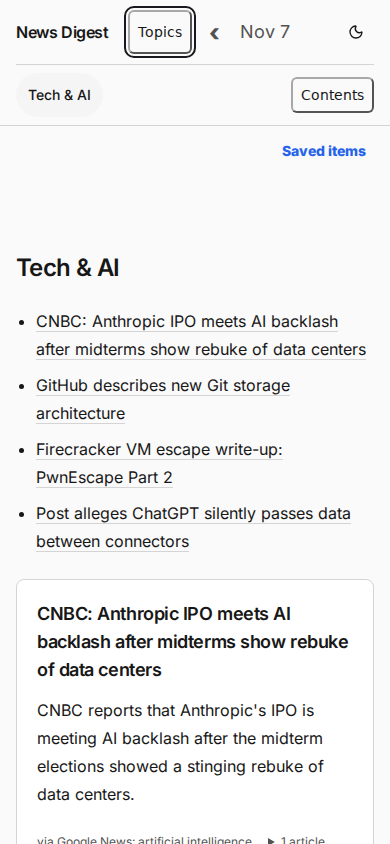
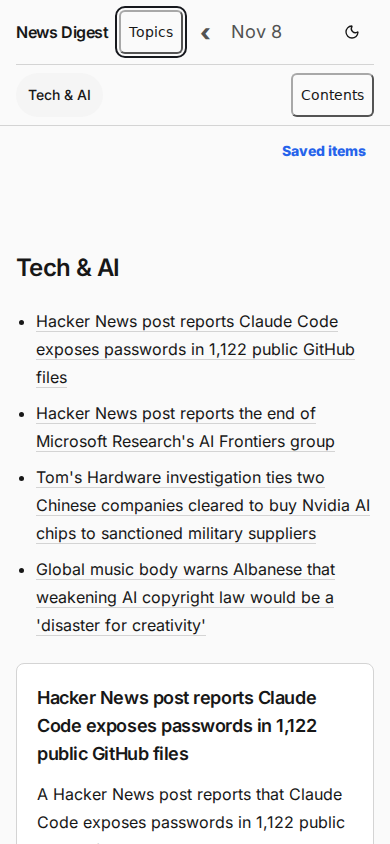
Record Nov 8 scheduled publication and first-week discovery totals

diff --git a/TASKS.md b/TASKS.md
@@ -4,17 +4,17 @@ Fix failures first. STEERING overrides older notes. [Prior detail through 846](d
 
 ## Immediate owner priorities
 
-- [ ] STEERING 50: phase 0 implementation is deployed: publication metadata/backfill, published-only reader, isolated development ledgers/providers and private AI/X test-edition controls. Five original reader responses match; private editions remain excluded. Recorded-provider accounting acceptance passed (1289); deployed free real-content test passed (1290); development allowances and disabled-provider guidance shipped (1292–1293). **Next: normal Nov 8 15:00 UTC scheduled publication**, then follow the [phase-0/phase-2 acceptance checklist](docs/edition-reviews/2026-11-08-acceptance-plan.md). Phase 2 topic hiding and story/post bookmarks are deployed and browser-verified, including historical editions. Do not ack either phase or begin phase 1 until scheduled acceptance passes. Keep VM private; phases 5–7 owner-gated. [Owner plan](docs/public-access-plan.md); [implementation history](docs/progress-archive/2026-11-08-task-detail-1295.md).
+- [ ] STEERING 50: phase 0 implementation is deployed: publication metadata/backfill, published-only reader, isolated development ledgers/providers and private AI/X test-edition controls. Five original reader responses match; private editions remain excluded. Recorded-provider accounting acceptance passed (1289); deployed free real-content test passed (1290); development allowances and disabled-provider guidance shipped (1292–1293). **Nov 8 scheduled publication passed** (1381): 162.339 s, full-AI, 19 stories/17 posts; original five response hashes unchanged and preferences/bookmarks browser checks pass. **Next: finish detailed editorial/accounting comparisons and phase acknowledgments**, following the [phase-0/phase-2 acceptance checklist](docs/edition-reviews/2026-11-08-acceptance-plan.md). Phase 2 topic hiding and story/post bookmarks are deployed and browser-verified, including historical editions. Do not ack either phase or begin phase 1 until scheduled acceptance passes. Keep VM private; phases 5–7 owner-gated. [Owner plan](docs/public-access-plan.md); [implementation history](docs/progress-archive/2026-11-08-task-detail-1295.md).
 
 - [ ] Breakage (1191–1229, Nov 7): metrics-store contention at the old 1% CPU cap caused transient scrape alerts and one failed backup-rule evaluation. CPU-only 1→2% trial began 16:00:24 UTC; memory/query limits unchanged, zero restarts. Iteration 1227 ten-minute paired observation: all 23 rules healthy, 42 uncached queries pass/max 1.076 s; admission-limit hits 1→2, zero queue timeouts/slow queries. Whole-stack 1.680% CPU/672.95 MiB peak, zero memory-high/OOM events. Fourteen small merges/130,682 rows, no big merges; comparable natural five-million-row compaction still unobserved. Iteration 1229 stored-history gap check (16:01–19:05:30, 370 points): largest 30-second merge increase 908,421 rows; 5,415,018 cumulative rows span 353 merges, not one comparable event. Iteration 1230 recovery probe now captures evaluator error/missed-iteration deltas across groups (not scraped historically); minute observation: zero new errors/misses, 23 healthy rules, no comparable merge. Recovery stays open; STEERING 49 removed the deployment hold and queued app changes deployed in 1230. [Incident and trial evidence](docs/decisions/0004-observability-capacity.md#nov-7-metrics-store-scrape-outage-iteration-1191). Latest check (1343, Nov 8 11:26 UTC): 23 healthy rules, four uncached queries ≤0.278 s, no new evaluator errors/missed runs; 31,684 rows/two small merges. Stored history (10:25:30–11:26:00, 122 points/series) adds 2,287,725 rows across 122 merges; largest 30-second increase 965,106 rows, no comparable candidate. Admission hits remain 2, zero query timeouts/slow queries or restarts. Recovery remains open. Next passive check ≥12:26 UTC.
 
-- [ ] STEERING 34 NOW: fixed keyword search ON for Nov 7; Grok 4.3/caps unchanged. Ship decision: nine usable keyword posts vs zero old-search; semantic dropped. Runtime/ledger admission and keyword-only production wiring verified (1053–1057). Next: first production acceptance; no more round-1/model analysis. [Plan](docs/x-search-plan.md), [evidence](docs/edition-reviews/2026-11-05-x-experiment-review.md).
+- [ ] STEERING 34 NOW: fixed keyword search ON for Nov 7; Grok 4.3/caps unchanged. Ship decision: nine usable keyword posts vs zero old-search; semantic dropped. Runtime/ledger admission and keyword-only production wiring verified (1053–1057). Nov 8 (1381): four completed keyword tools/40 fetched, eight selected citations, six outside-list; Nov 7–8 reviews recorded. Next: finish saved novelty/engagement review and Nov 9 third scheduled edition; no more round-1/model analysis. [Plan](docs/x-search-plan.md), [evidence](docs/edition-reviews/2026-11-05-x-experiment-review.md).
 - [ ] STEERING 30/31 historical accounting: $2.50 experiment/$1 UTC-day cap, outside 13:00–16:00, $0.15 per-call hold. Round 1 charged $0.532331 including unresolved Gaming timeout. [Experiment](docs/x-search-experiment.md), [review](docs/edition-reviews/2026-11-04-x-experiment-review.md).
 - [ ] STEERING 27 grouping: Nov 5 published multi-article groups had no clearly unrelated event; World broadest. Tech Moonshot/Hong Kong combined separate developments; editor v5 same-story instructions shipped (850), verify Nov 6. Raw responses/recall unverified; no wording grouping. [Review](docs/edition-reviews/2026-11-05.md).
   - Same-story production pass enabled (650) after sampled gate: labelled precision 141/141, recall 141/157, zero clearly unrelated/one borderline among 155 reviewed merges; no wording grouping rules. Four-call reservation bound $0.058192.
 - [ ] STEERING 7 speed: Nov 7 180.570 s/693 candidates; <60 s/current volume and <2 min/1,500 unmet. Iteration 1226 [recorded timeline](docs/edition-reviews/2026-11-07-social-latency.md): NBA critical (90.426 s story stage, 47.583 s posts); final 42.522 s includes X triage/repair then Bluesky triage/editing, 41.986 s active HTTP. Compare deployed repair changes on Nov 8. Bluesky scoring/editor split prepared (1020), still sequential: earlier scoring holds can refuse otherwise-admitted X editing (1022). Revisit only with protected X/repair holds or exact cache-only scoring; no paid trial. [Admission proof](docs/edition-reviews/2026-11-05-social-latency.md#admission-proof--iteration-1022), [concurrency](docs/edition-reviews/2026-11-04-concurrency.md).
 - [ ] STEERING 16 / M4 Social posts: Nov 5 X picks Tech/NBA/Gaming/World 3/5/5/1; all four topics present, no Bluesky picks. Saved X metrics empty: viral/outside-list quality acceptance remains open. Paid old open-search picks 1/19 (Tech); no claim that all-topic presence proves paid discovery quality.
-- [ ] STEERING 9/15 first-week report (1206): Nov 7 $0.166127/20 fetched/19 new verified outside-list candidates; three novel Tech citations and one previously verified NBA citation selected. Gaming/World four unconfirmed attempts. Nov 2–7 total $0.776678/24 calls/zero holds; attributed new verified/outside-list 91/80. Continue through Nov 8; keyword three-edition acceptance stays open. [Daily/weekly report](docs/SOURCES.md#nov-7-daily-and-first-week-production-x-report--iteration-1206).
+- [ ] STEERING 9/15 first-week report (1206): Nov 7 $0.166127/20 fetched/19 new verified outside-list candidates; three novel Tech citations and one previously verified NBA citation selected. Gaming/World four unconfirmed attempts. Nov 2–7 total $0.776678/24 calls/zero holds; attributed new verified/outside-list 91/80. Nov 2–8 report (1381): $1.036785/28 calls/zero holds, attributed new verified/outside-list 131/115; Nov 8 completed all four keyword tools and selected eight citations (six outside-list). Novelty/engagement review and Nov 9 third-edition acceptance stay open. [Daily/weekly report](docs/SOURCES.md#nov-7-daily-and-first-week-production-x-report--iteration-1206).
 - [ ] STEERING 18 Bluesky: authenticated hourly collection and session refresh verified (788); Nov 5 no selected posts. Quality/diversity acceptance remains open; World phrase shortlist empty. Cross-platform context/semantic gates shipped. [Sources](docs/SOURCES.md#sustained-bluesky-session-recovery--iteration-788-2026-11-05).
 - [x] STEERING 33/45 UI rebuild closed (1075): all acceptance gaps finished; [56 route screenshots and eight loaded-post views](docs/screenshots/ui/spec-routes.md). All 16 X embeds/17 saved posts retained. Desktop/mobile posts flow with the page (1079); full-embed length conflict remains open above. Label/admin-404/layout checks pass. Private rollout remains authorized; proxy header replacement proof required before public access.
 - [ ] STEERING 28 incremental triage OFF: reserve-safe admission/pools/cutoffs/draining verified. Nov 6 allowance $0.021736–$0.028915; only 2/65 early fingerprints compatible. Keep OFF; waste/latency unmeasured. [Assessment](docs/edition-reviews/2026-11-05-incremental-admission.md).
@@ -34,7 +34,7 @@ Fix failures first. STEERING overrides older notes. [Prior detail through 846](d
 
 ## Latest verified step
 
-- [x] Iteration 1344: Reconciled phase-0 status documentation with the deployed free/private admin test path, separate development opt-ins and remaining scheduled acceptance gate.
+- [x] Iteration 1381: Observed Nov 8 successful scheduled publication, verified reader/history and original hashes, browser-checked preferences/bookmarks, and recorded daily/first-week X totals. Detailed acceptance remains open.
 
 Earlier completed markers: [through 1042](docs/progress-archive/2026-11-06-task-done-1043.md).
 

diff --git a/docs/edition-reviews/2026-11-08.md b/docs/edition-reviews/2026-11-08.md
@@ -1,0 +1,77 @@
+# Nov 8 scheduled edition review
+
+Iteration 1381 observed scheduled publication without provider calls, writes to
+application data, deployment or restart. Detailed comparisons below remain open.
+
+## Publication and accounting
+
+Edition `f9af996b-f647-4994-836e-054964a93b74` covers Nov 7–8, ending 15:00 UTC.
+The scheduled job ran 15:00:00.032–15:02:42.371 UTC in one attempt:
+**162.339 seconds**, 18.231 seconds faster than Nov 7, still above target.
+Database metadata confirms `kind=scheduled`, the matching scheduled key and
+`published_at=2026-11-08 15:02:42.337+00`.
+
+API and worker started at 11:36:53 UTC after deployment of `2f5635ed`.
+All four topics completed AI story and post editing with zero unscored articles;
+the released scheduled reserve reports **full-ai**, recovering from NBA fallback.
+Tech and World story editing used Haiku; NBA and Gaming used Sonnet.
+
+| Topic     | Article candidates | Stories | X posts | Bluesky posts |
+| --------- | -----------------: | ------: | ------: | ------------: |
+| Tech & AI |                111 |       5 |       4 |             1 |
+| NBA       |                 85 |       4 |       3 |             2 |
+| Gaming    |                 80 |       5 |       2 |             0 |
+| World     |                144 |       5 |       3 |             2 |
+| Total     |                420 |      19 |      12 |             5 |
+
+Anthropic accounting: **$0.320864**, 43 settled calls, zero remaining holds.
+Daily allowance $0.516088, remaining $0.195224; scheduled reserve zero.
+This is $0.059309 less than Nov 7. X discovery is accounted separately below.
+
+## Keyword discovery and first week
+
+All four searches report `execution=completed` and a completed
+`x_keyword_search` tool call, with one attempt per topic and zero holds.
+This improves on Nov 7's four unconfirmed attempts for Gaming/World.
+
+| Topic     |      Cost | Fetched / newly verified | New outside-list | Cited selections / outside-list |
+| --------- | --------: | -----------------------: | ---------------: | ------------------------------: |
+| Tech & AI | $0.066438 |                  10 / 10 |               10 |                           2 / 2 |
+| NBA       | $0.064175 |                  10 / 10 |                5 |                           2 / 0 |
+| Gaming    | $0.064925 |                  10 / 10 |               10 |                           1 / 1 |
+| World     | $0.064569 |                  10 / 10 |               10 |                           3 / 3 |
+| Total     | $0.260107 |                  40 / 40 |               35 |                           8 / 6 |
+
+Selected counts were refreshed after publication; the pre-publication report
+correctly had zero selections. Cited selection does not establish novel paid
+value versus free discovery. See [first-week totals](../SOURCES.md#nov-8-daily-and-first-week-production-x-report--iteration-1381).
+
+## Reader and Bluesky observations
+
+Read every saved brief, summary, original post and context. NBA now has a
+four-line brief and four stories, with no Knicks–Cavaliers matchup preview.
+Tech still contains headline-level summaries; supplied-evidence classification
+remains necessary before accepting summary-depth improvements.
+NBA's two Curry posts describe separate milestones (41 points and a three-point
+streak); do not count shared subject alone as a repeated event.
+
+Reserved slots were enabled in every topic. Bluesky read/shortlisted/picked:
+Tech 585/1/1, NBA 539/10/2, Gaming 671/0/0, World 581/4/2.
+Gaming reports `nothing-passed-triage`; other topics report `picks-made`, with
+zero recorded unsupported-claim or other selection drops.
+
+Reader latest/direct/history agree on today's window and 19 stories/17 posts.
+All five original published response hashes remain unchanged. The known free
+private test still returns reader 404. Topic hiding and bookmarks pass desktop
+and mobile in both themes, including reload, cross-tab and historical content.
+Representative preference/bookmark screenshots were refreshed and inspected.
+After publication: zero alerts; API/database/Redis, 14 services and 36 sources
+healthy. No failed scheduled digest run. VM remains private.
+
+## Remaining acceptance
+
+Follow the [acceptance plan](2026-11-08-acceptance-plan.md): complete saved
+engagement/free-link overlap and novelty checks; per-topic Bluesky cost and
+replacement evidence; new link facets/publisher checks; Tech evidence depth;
+and validation/critical-path comparison. Phase 0/2 acknowledgments remain open;
+phase 1 has not begun. Keyword/Bluesky three-edition acceptance needs Nov 9.

diff --git a/PROGRESS.md b/PROGRESS.md
@@ -123,3 +123,14 @@
 - Advanced item 50 documentation: replaced the plan's accumulated implementation narrative and stale “until development wiring ships” wording with current behavior. The admin form uses free private tests; optional AI/X use development pools, while legacy manual routes retain production accounting. Preserved owner decisions and acceptance gates.
 - Verified the description against AdminNewEdition, PreviewController and generateTest runtime composition. No provider calls, publication, flags, schema or application code changed; VM remains private.
 - `pnpm format`, `pnpm lint:fix`, `pnpm build`, full `pnpm check` and `git diff --check` pass: 629 unit/233 integration passes, four expected skips. `pnpm exec tsx scripts/check-handbook.ts` passes (18 pages/22 diagrams/30 tables); no diagram changes. Normal four-service restart follows push. Scheduled phase acceptance and the Nov 2–8 report remain due at 15:00 UTC.
+
+## 2026-11-08: iteration 1381 — observe scheduled publication and first-week totals
+
+- Clean main/no leftovers. Alerts empty; health, 14 services and 36 sources pass. Observed normal scheduled job, no manual generation/provider requests; protected window preserved, no deployment/restart.
+- Nov 8 edition `f9af996b-f647-4994-836e-054964a93b74` completed in one attempt, 162.339 s, 420 candidates, 19 stories/17 posts. Full-AI reserve outcome recovers NBA fallback; Anthropic $0.320864/43 settled calls/zero holds, reserve released. DB confirms scheduled kind/key and publication timestamp.
+- `check-scheduled-reader.ts 2026-11-08T15:00:00Z` initially pending/2, then passes latest/direct/history. `compare-publication-content.ts compare` verifies five original response hashes; private free test reader remains 404. API/worker start 11:36:53 UTC matches deployed `2f5635ed`.
+- `report-edition-timing.ts --scheduled-only --limit 1`, daily/week X reports: four completed keyword tools, $0.260107, 40 fetched/new verified, 35 outside-list, eight cited selections/six outside-list. Refreshed selection evidence after publication. Nov 2–8 totals $1.036785/28 calls/137 fetched/131 attributed new verified/115 outside-list, no holds; Nov 8 UTC day incomplete.
+- Read all saved briefs/summaries/posts/contexts; NBA brief restored/four stories, Tech still headline-level. Recorded Bluesky read/shortlist/pick outcomes and pending detailed comparisons in new daily review. Phase acknowledgments and third-edition acceptance remain open.
+- `smoke-reader-preferences.ts` and `smoke-reader-bookmarks.ts` pass desktop/mobile/light/dark, including historical selections. Inspected refreshed mobile preference/desktop bookmark screenshots; kept these two and deliberately restored other generated screenshots to avoid redundant churn.
+- Corrected two report field assumptions (`runs`, numeric citations); unavailable psql replaced by read-only Drizzle metadata query. No application data changed.
+- `pnpm format`, `pnpm lint:fix`, `pnpm build`, full `pnpm check` and `git diff --check` pass: 629 unit/233 integration passes, four expected skips. Documentation/screenshots only; no restart/deploy during 13:00–16:00 UTC. Next: finish detailed scheduled/phase acceptance; passive metrics probe no earlier than 15:31 UTC.

diff --git a/docs/SOURCES.md b/docs/SOURCES.md
@@ -1,5 +1,33 @@
 # Content source inventory
 
+### Nov 8 daily and first-week production X report — iteration 1381
+
+Read-only post-publication ledger snapshot, Nov 8 15:05 UTC, using
+`report-x-discovery.ts 2026-11-08` and `report-x-week.ts 2026-11-08`.
+The seven-day report covers Nov 2–8; Nov 8 remains an incomplete UTC day.
+
+| Topic                             | Nov 8 cost | New verified / outside-list | Nov 2–8 cost | New verified / outside-list |
+| --------------------------------- | ---------: | --------------------------: | -----------: | --------------------------: |
+| Tech & AI                         |  $0.066438 |                     10 / 10 |    $0.271168 |                     37 / 34 |
+| NBA                               |  $0.064175 |                      10 / 5 |    $0.291355 |                     39 / 32 |
+| Gaming                            |  $0.064925 |                     10 / 10 |    $0.234287 |                     30 / 28 |
+| World                             |  $0.064569 |                     10 / 10 |    $0.216593 |                     25 / 21 |
+| Unattributed historical call      |          — |                           — |    $0.023382 |                     unknown |
+| Total attributed yield / all cost |  $0.260107 |                     40 / 35 |    $1.036785 |                   131 / 115 |
+
+First week: 28 production calls, 137 fetched posts, zero remaining holds.
+Nov 2's two fetched posts lack topic attribution; historical search types vary.
+Counts use saved discovery baselines and current verification, not unique
+people or causal paid yield. No additional provider requests were made.
+
+Today all four keyword tools report completed execution, with no retries.
+Eight citations appear in the scheduled selection (Tech/NBA/Gaming/World
+2/2/1/3), six outside curated lists. Novelty versus free links and engagement
+quality still need review. World now has ten newly verified outside-list
+candidates and three selected citations, after Nov 7's unconfirmed searches.
+See the [scheduled review](edition-reviews/2026-11-08.md). Keep the three-edition
+keyword acceptance open through Nov 9; budgets, models and settings unchanged.
+
 ### Nov 7 pre-publication keyword production — iteration 1198
 
 Read-only snapshot at 14:38 UTC, before the 15:00 edition. This is partial
